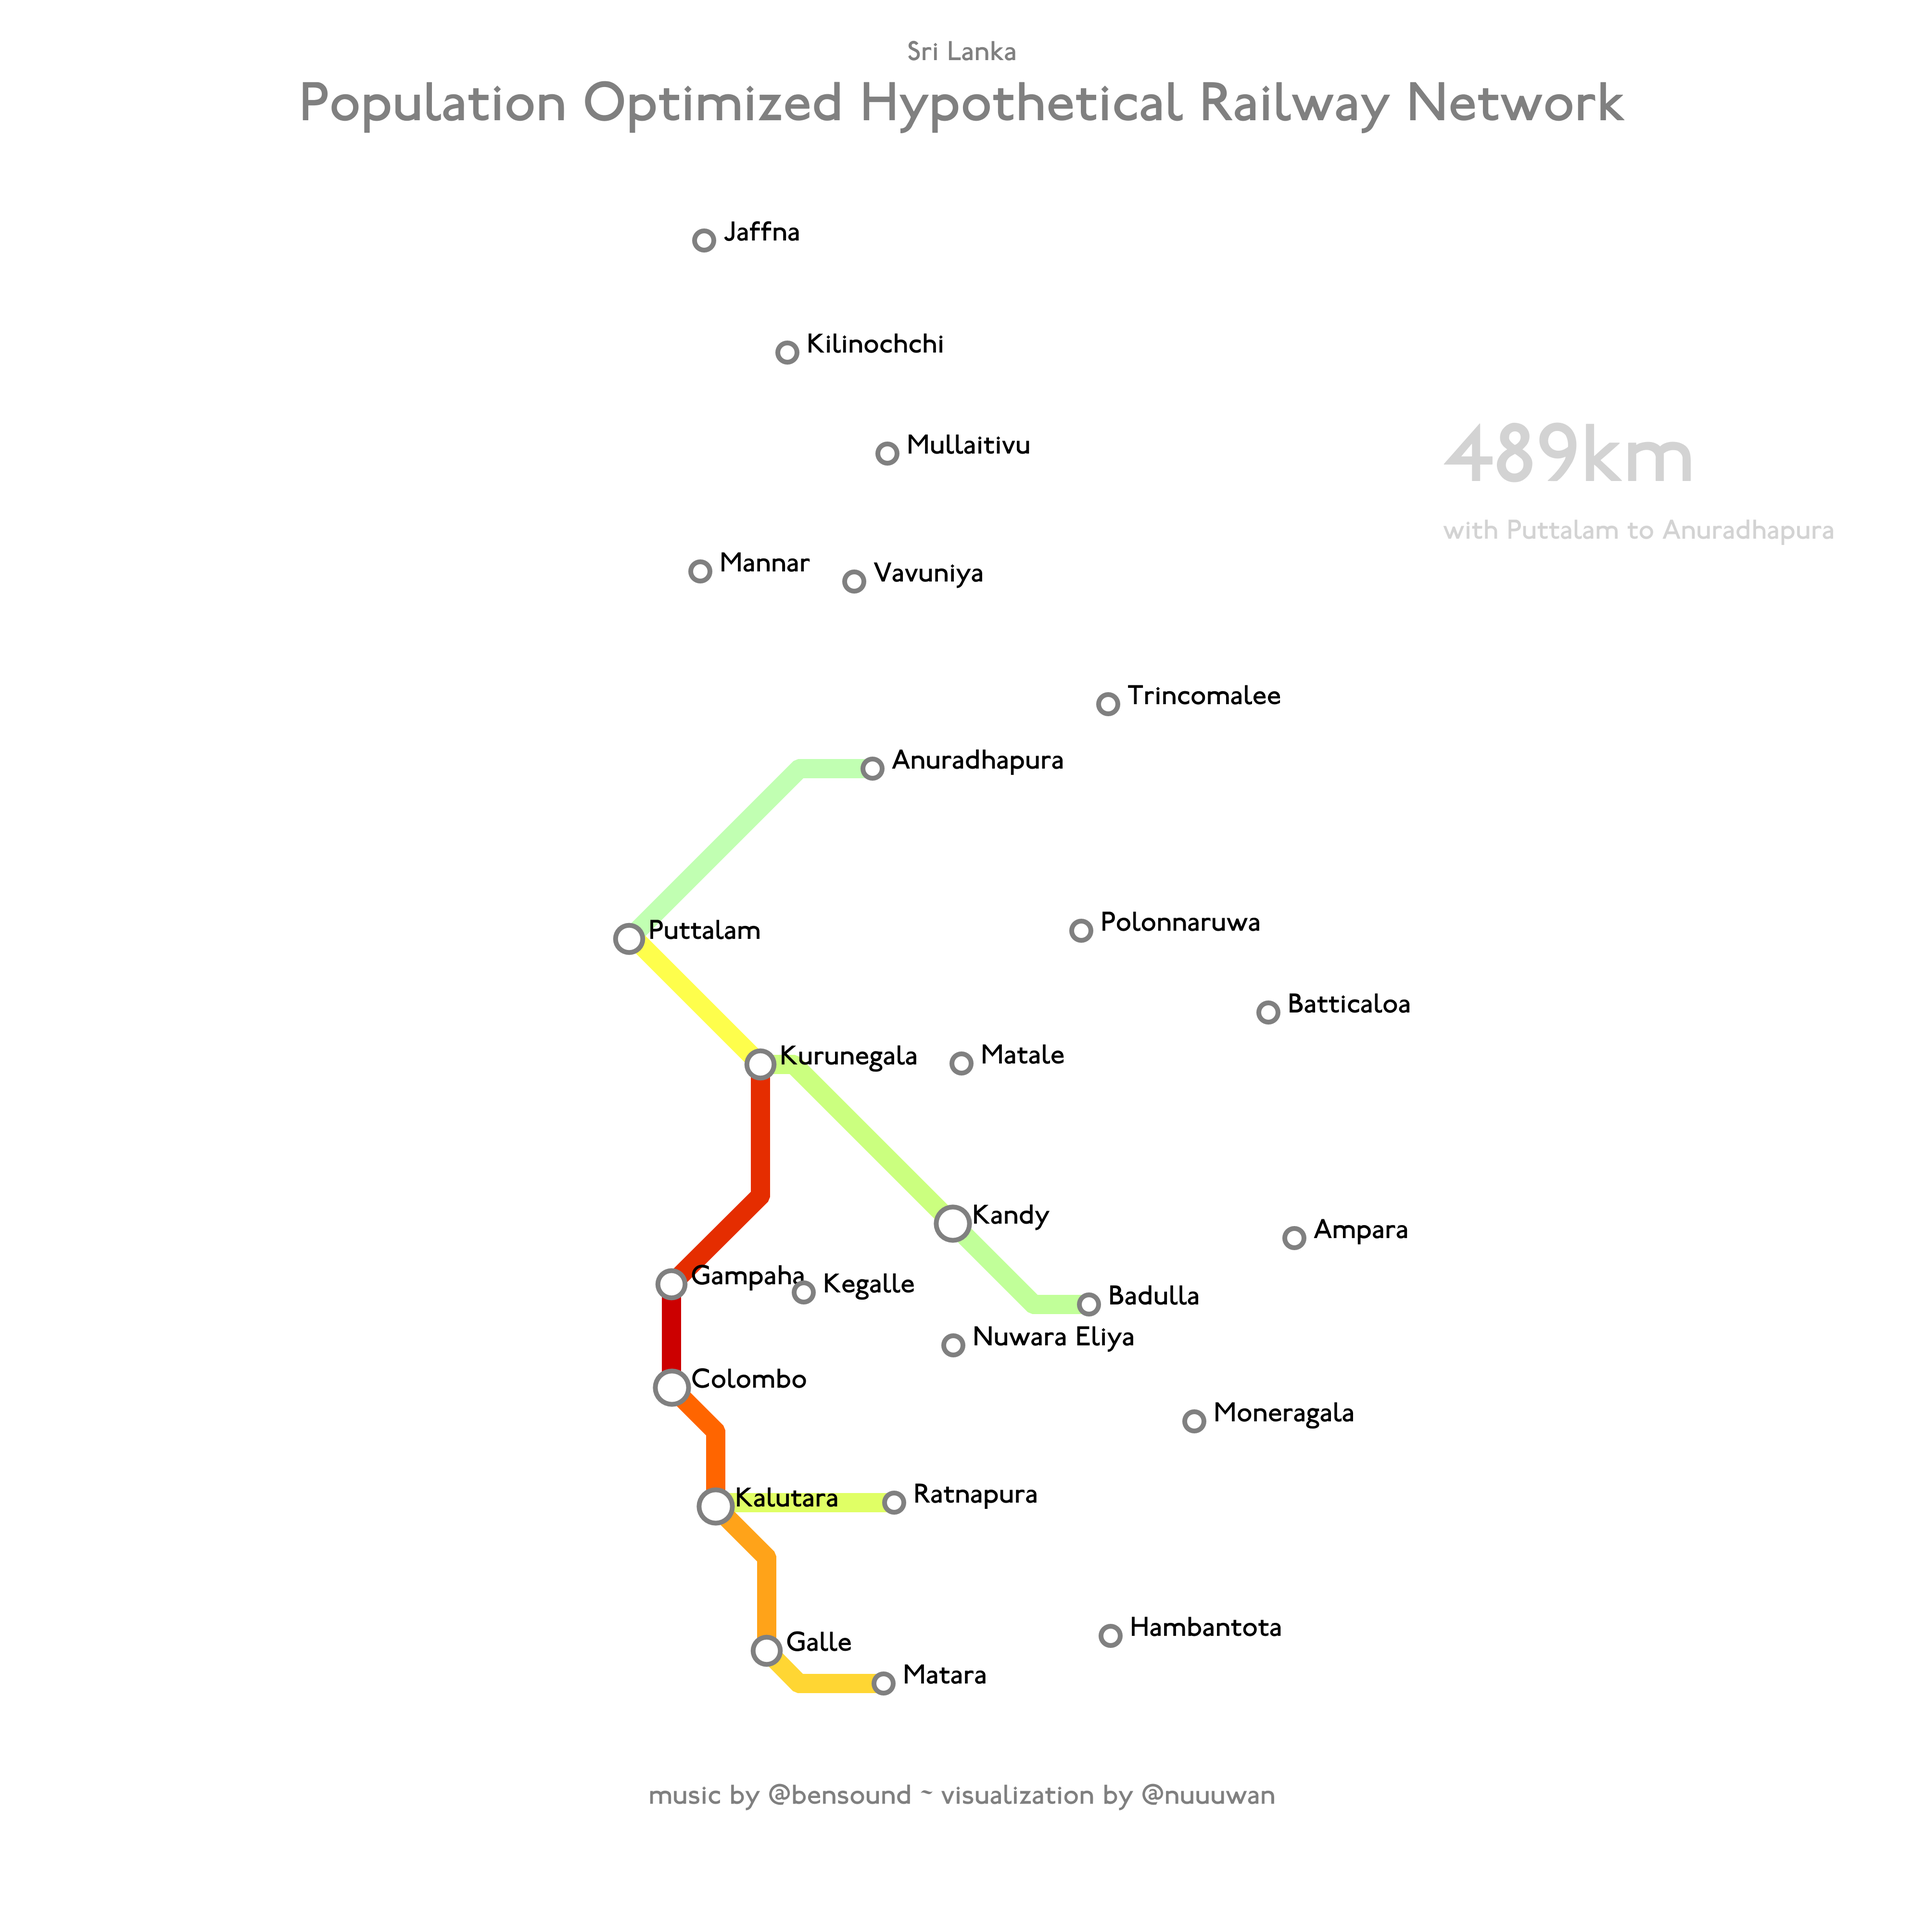
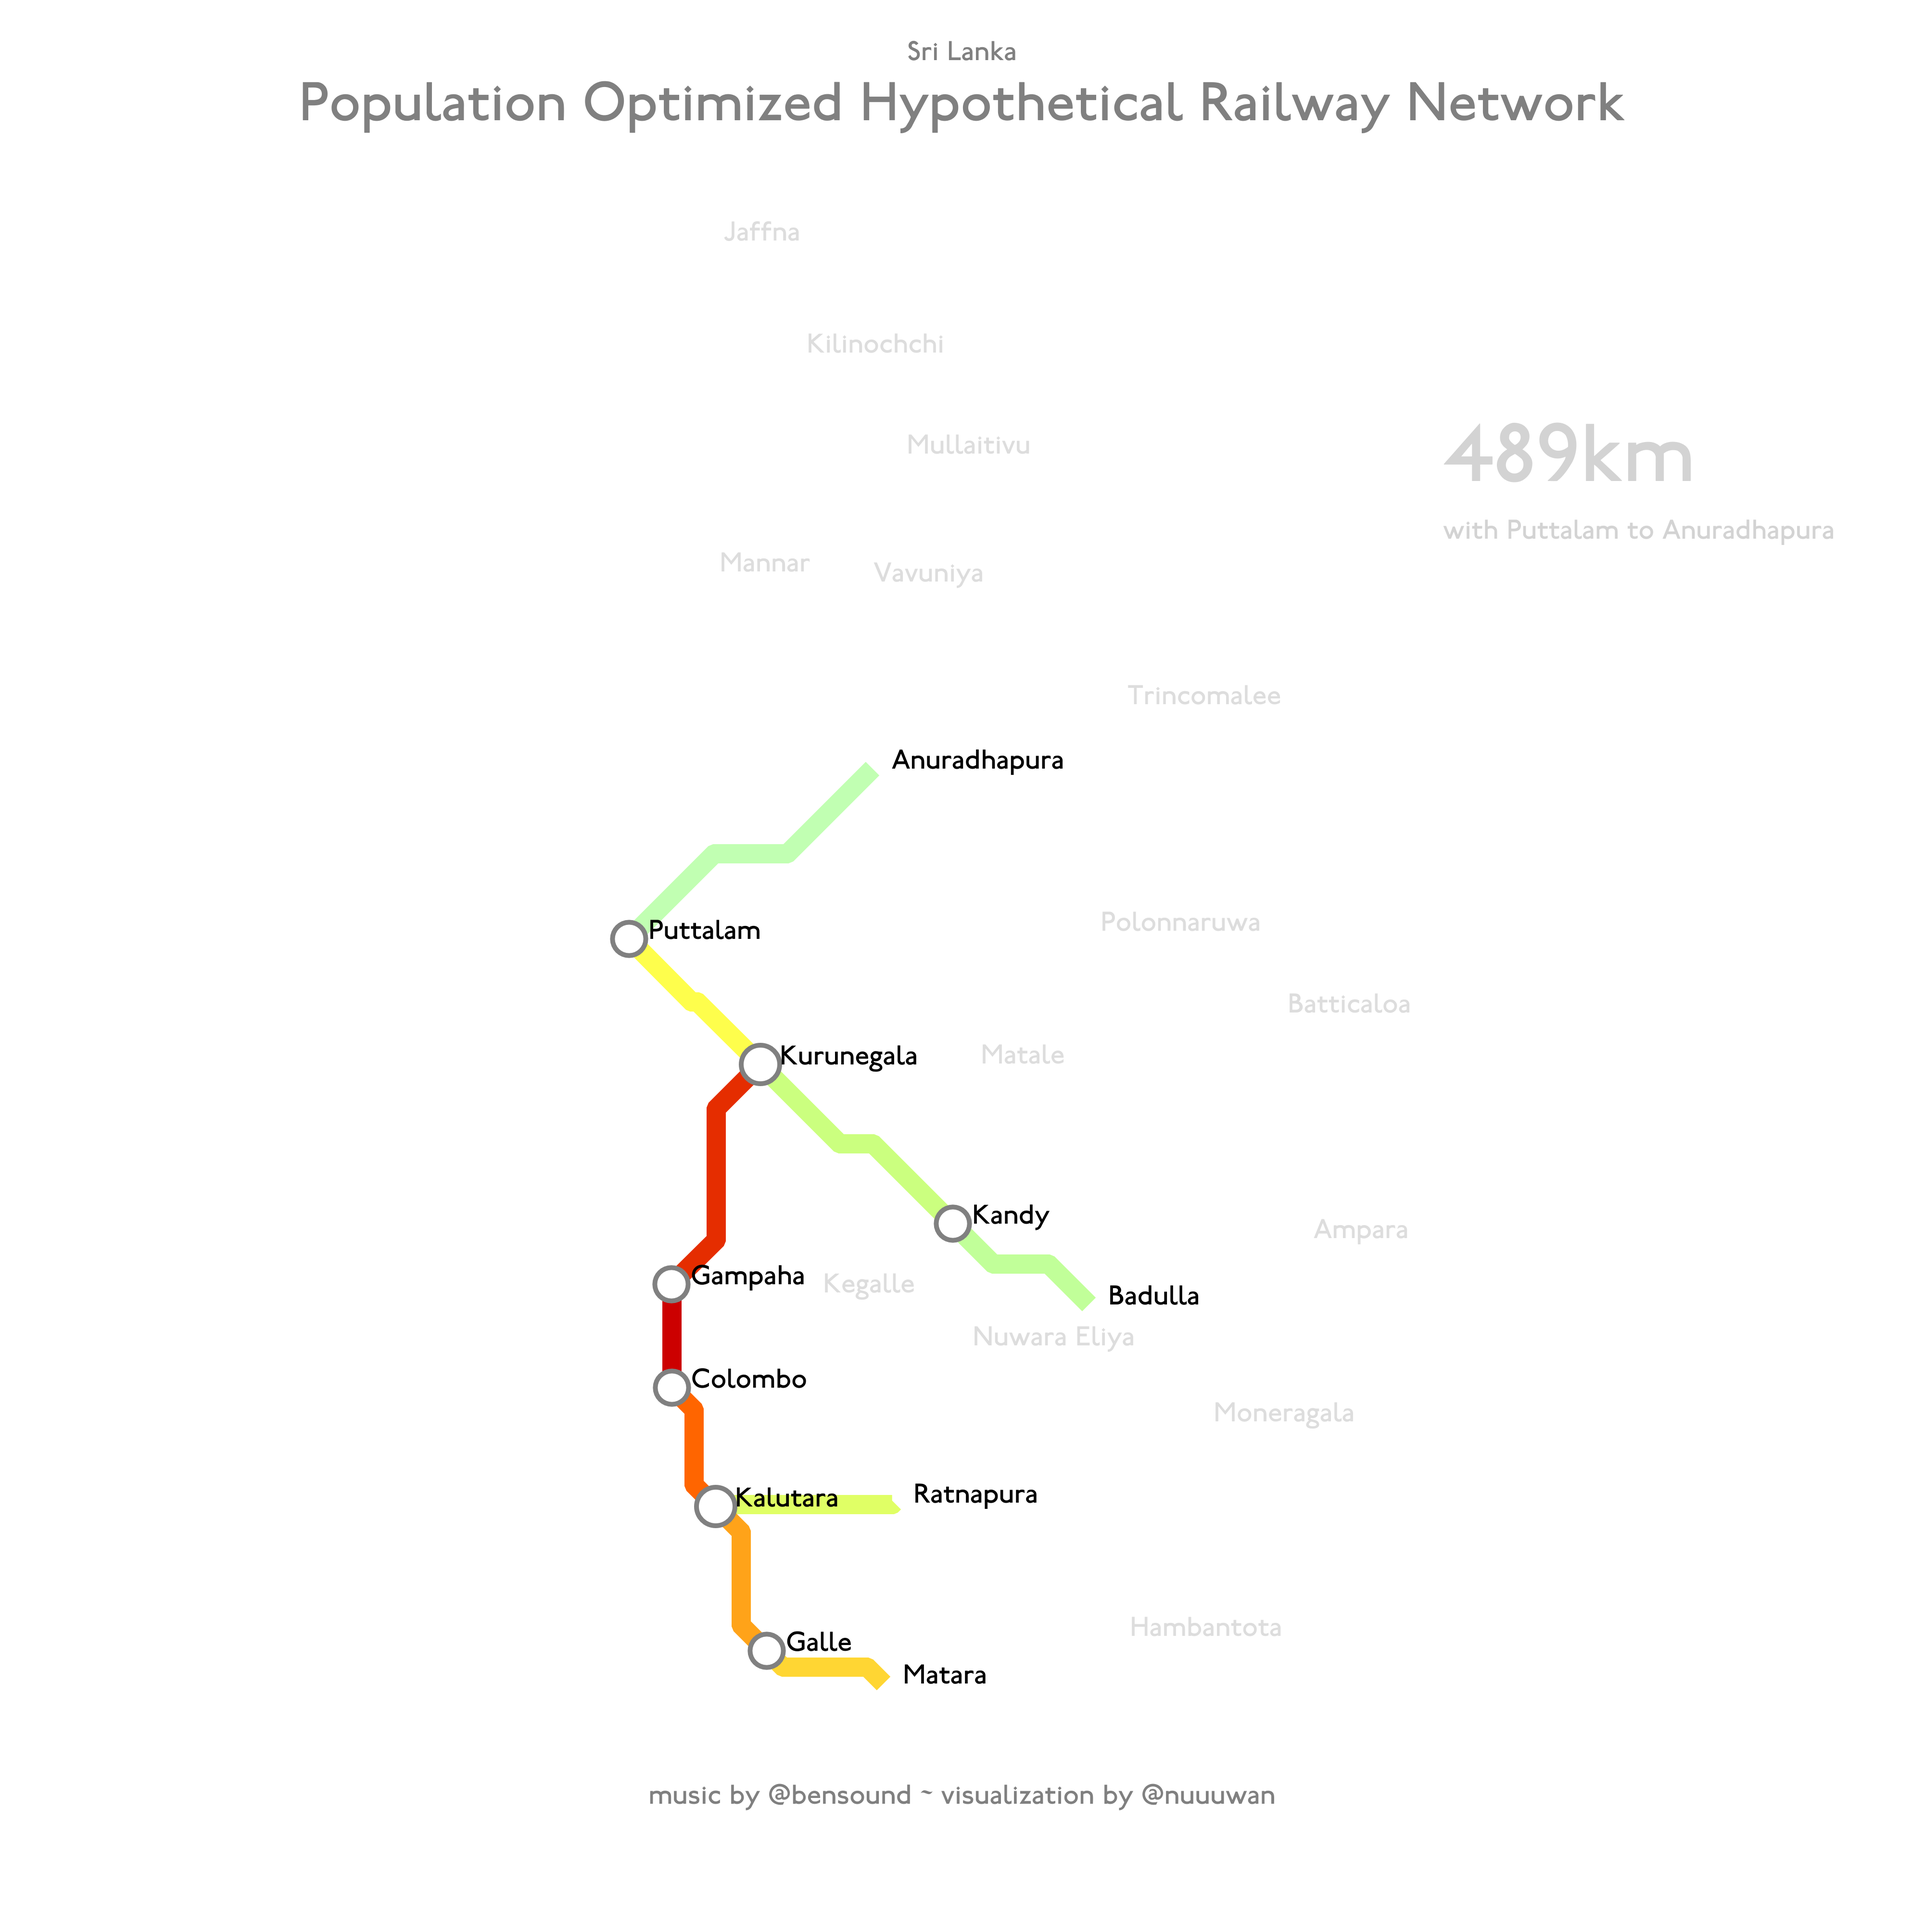
various

diff --git a/src/lgn/render/draw_line.py b/src/lgn/render/draw_line.py
@@ -4,48 +4,63 @@ from utils.xmlx import _
 
 from lgn.utils import color_utils
 
-log = Log(__name__)
+log = Log('draw_line')
+
+
+def elaborate_path(x1, y1, x2, y2, t):
+    dx, dy = x2 - x1, y2 - y1
+
+    min_dx_dy = min(abs(dx), abs(dy)) / 2
+    dx1 = min_dx_dy * dx / abs(dx)
+    dy1 = min_dx_dy * dy / abs(dy)
+
+    x3, y3 = x1 + dx1, y1 + dy1
+    x4, y4 = x2 - dx1, y2 - dy1
+
+    sx1, sy1 = t(x1, y1)
+    sx3, sy3 = t(x3, y3)
+    sx4, sy4 = t(x4, y4)
+    sx2, sy2 = t(x2, y2)
+
+    d_list = []
+    d_list.append(f'M {sx1} {sy1}')
+
+    if (sx1, sy1) != (sx3, sy3):
+        d_list.append(f'L {sx3} {sy3}')
+
+    if (sx3, sy3) != (sx4, sy4):
+        d_list.append(f'L {sx4} {sy4}')
+
+    d_list.append(f'L {sx2} {sy2}')
+
+    d = ' '.join(d_list)
+    return d
+
+
+def smooth_path(d):
+    path = svgpathtools.parse_path(d)
+    smoothed_path = svgpathtools.smoothed_path(
+        path,
+    )
+    return smoothed_path.d()
 
 
 class DrawLine:
     def draw_line(self, i_edge, n_edges, id1, id2, t):
         x1, y1 = self.network.node_idx[id1]['centroid']
         x2, y2 = self.network.node_idx[id2]['centroid']
-        dx, dy = x2 - x1, y2 - y1
-
-        min_dx_dy = min(abs(dx), abs(dy)) 
-        dx1 = min_dx_dy * dx / abs(dx)
-        dy1 = min_dx_dy * dy / abs(dy)
-
-        x3, y3 = x1 + dx1, y1 + dy1
-
-
-        sx1, sy1 = t(x1, y1)
-        sx3, sy3 = t(x3, y3)
-        sx2, sy2 = t(x2, y2)
+        d = elaborate_path(x1, y1, x2, y2, t)
+        smoothed_d = smooth_path(d)
 
         p = 1 - (i_edge + 1) / (n_edges)
         color = color_utils.p_to_color(p)
-
-        d = ' '.join(
-            [
-                f'M {sx1} {sy1}',
-                f'L {sx3} {sy3}',
-                f'L {sx2} {sy2}',
-            ]
-        )
-        path = svgpathtools.parse_path(d)
-        smoothed_path = svgpathtools.smoothed_path(
-            path, 
-        )
-        d = smoothed_path.d()
 
         return _(
             'path',
             None,
             self.styler.line
             | dict(
-                d=d,
+                d=smoothed_d,
                 stroke=color,
             ),
         )

diff --git a/workflows/rail_network.py b/workflows/rail_network.py
@@ -12,23 +12,27 @@ log = Log('rail_network')
 
 def is_close_enough(centroid):
     distance = shape_utils.compute_distance(centroid, [6.92, 79.86])
-    return distance < 4000
+    return distance < 100
+
 
 def build_single():
     styler = Styler()
     max_network_length = 1048 * 2
-    max_segments = 10
+    max_segments = 5
 
     network = Network.from_type(
         EntType.DISTRICT, lambda ent: is_close_enough(ent.centroid)
     )
     network.edge_pair_list = []
     network = single_segments.rebuild_incr(
-        network, max_network_length=max_network_length, max_segments=max_segments
+        network,
+        max_network_length=max_network_length,
+        max_segments=max_segments,
     )
 
     draw = Draw(network, styler)
     draw.draw(f'workflow_media/rail_network.{max_segments}.png')
+
 
 def build_animated_gif():
     styler = Styler()
@@ -55,6 +59,7 @@ def build_animated_gif():
 
     gif_path = 'workflow_media/rail_network.single_segments.rebuild_incr.gif'
     Draw.build_animated_gif(png_path_list, gif_path)
+
 
 if __name__ == '__main__':
     build_single()

diff --git a/src/lgn/render/draw_node.py b/src/lgn/render/draw_node.py
@@ -8,6 +8,8 @@ log = Log(__name__)
 
 class DrawNode:
     def draw_node_circle(self, sx, sy, n_neighbors):
+        if n_neighbors <= 1:
+            return None
         return _(
             'circle',
             None,
@@ -19,7 +21,10 @@ class DrawNode:
             ),
         )
 
-    def draw_node_text(self, id, sx, sy):
+    def draw_node_text(self, id, sx, sy, n_neighbors):
+        fill = self.styler.node_text['fill']
+        if n_neighbors == 0:
+            fill = '#ddd'
         return _(
             'text',
             id,
@@ -27,6 +32,7 @@ class DrawNode:
             | dict(
                 x=sx + self.styler.RADIUS * 2,
                 y=sy,
+                fill=fill,
             ),
         )
 
@@ -36,6 +42,6 @@ class DrawNode:
             'g',
             [
                 self.draw_node_circle(sx, sy, n_neighbors),
-                self.draw_node_text(id, sx, sy),
+                self.draw_node_text(id, sx, sy, n_neighbors),
             ],
         )

diff --git a/src/lgn/core/network.py b/src/lgn/core/network.py
@@ -110,8 +110,10 @@ class Network:
         for id1, id2 in self.edge_pair_list:
             if id1 not in neighbor_idx:
                 neighbor_idx[id1] = []
-            if id1 != id2:
-                neighbor_idx[id1].append(id2)
+            if id2 not in neighbor_idx:
+                neighbor_idx[id2] = []
+            neighbor_idx[id1].append(id2)
+            neighbor_idx[id2].append(id1)
         return neighbor_idx
 
     @property
@@ -155,4 +157,4 @@ class Network:
     @property
     def info2(self):
         node1, node2 = self.edge_pair_list[-1]
-        return f'with {node1} to {node2}'
+        return f'+ {node1} to {node2}'

diff --git a/src/lgn/render/styler.py b/src/lgn/render/styler.py
@@ -82,7 +82,7 @@ class Styler:
             y=self.DIM * 1 / 4 + self.FONT_SIZE * 2,
             fill='lightgrey',
             stroke='none',
-            font_size=self.FONT_SIZE,
+            font_size=self.FONT_SIZE * 1.5,
             font_family=self.FONT_FAMILY,
             text_anchor='start',
             dominant_baseline='hanging',
